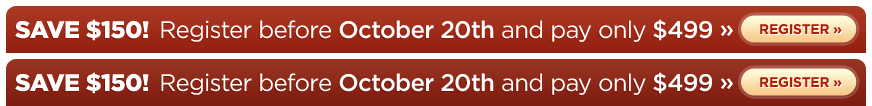
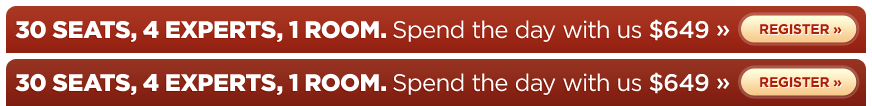
added non-discount callout images; updated text with non-discount copy.

Changed region(s): [[0.0, 0.6792, 0.867, 0.9057], [0.0, 0.1698, 0.867, 0.3962]]

diff --git a/template-event.html b/template-event.html
@@ -68,121 +68,125 @@
     	</div><!-- end #header -->
     	
     	<div id="content">
-    	    <a href="" id="callout">Save $150! Register before October 15th and pay only $499 &raquo;</a>
+    	    <a href="" id="callout">Save $150! Register before October 24th and pay only $499 &raquo;</a>
     	    
     	    <div id="register">
     	       <h2>Register</h2>
     	       <p><a href="" id="button">
     	           <span id="registration-price">$499</span>
     	           <span id="registration-type">Early Workshop Registration
-    	               <span class="hidden">(</span><span id="discount-notice">$649 after October 15th</span><span class="hidden">).</span>
+    	               <span class="hidden">(</span><span id="discount-notice">$649 after October 24th</span><span class="hidden">).</span>
     	           </span>
     	           <span id="register-now">Register now! &raquo;</span></a></p>
-    	       <p><img src="css/images/logo-eventwax.png" width="121" height="64" alt="Logo Eventwax" />Our signup process is handled by <strong>EventWax</strong>, and excellent bit of software from our friends at <strong>Vivabit</strong>, used for events around the world including the popular <strong>@media</strong> conferences. Payments are handled by <strong>Paypal</strong>&mdash;and don&rsquo;t worry, you can register without a Paypal account.</p>
+    	       <p><img src="css/images/logo-eventwax.png" width="121" height="64" alt="Logo Eventwax" />Our signup process is handled by <strong>EventWax</strong>, an excellent bit of software from our friends at <strong>Vivabit</strong>, used for events around the world including the popular <strong>@media</strong> conferences. Payments are handled by <strong>Paypal</strong>&mdash;and don&rsquo;t worry, you can register without a Paypal account.</p>
     	    </div>
     	    
     	    <div id="about">
-    	       <h2>What You'll Learn</h2>
-               <p><strong>Front-End Development: From Design to Implementation</strong></p>
-               
-               <table border="0" cellspacing="10" cellpadding="0">
-       	           <thead>
-           	           <tr>
-           	               <th>Time</th>
-           	               <th>Description</th>
-           	               <th>Speaker</th>
-           	           </tr>
-       	           </thead>
-       	           <tbody>
-       	               <tr>
-          	               <td>8:00am &ndash; 9:00am</td>
-          	               <td>
-          	                   <h3>Registration &amp; Breakfast</h3>
-          	                   <p>Get to the hotel bright and early to pick up your namebadge and grab a snack before the first session.</p>
-          	               </td>
-          	               <td>&nbsp;</td>
-          	           </tr>
-          	           <tr>
-         	               <td>9:00am &ndash; 9:15am</td>
-         	               <td>
-         	                   <h3>Welcome &amp; Introduction</h3>
-         	               </td>
-         	               <td>&nbsp;</td>
-         	           </tr>
-           	           <tr class="session">
-           	               <td>9:15am &ndash; 10:30am</td>
-           	               <td>
-           	                   <h3>Planning &amp; Designing Your Interface</h3>
-           	                   <p>You have a concept and a feature list, now what? Bryan helps you organize and label your content, and teaches you to find zen in the most subtle details.</p>
-           	               </td>
-           	               <td><a href="#bryanveloso">Bryan Veloso</a></td>
-           	           </tr>
-           	           <tr>
-          	               <td>10:30am &ndash; 10:45am</td>
-          	               <td>
-          	                   <h3>Mid-Morning Break</h3>
-          	                   <p>A quick pause between sessions&mdash;just enough time to grab some coffee and check your email.</p>
-          	               </td>
-          	               <td>&nbsp;</td>
-          	           </tr>
-           	           <tr class="session">
-          	               <td>10:45am &ndash; 12:00pm</td>
-          	               <td>
-          	                   <h3>Slicing &amp; Dicing: Exporting &amp; Optimizing Images</h3>
-          	                   <p>Now that you have your design, Dan teaches you to translate your carefully crafted layers into creatively flattened retangles, and how to pick the best image type and compression to achieve the right balance of good looks and slim file sizes.</p>
-          	               </td>
-          	               <td><a href="#danrubin">Dan Rubin</a></td>
-          	           </tr>
-          	           <tr>
-          	               <td>12:00pm &ndash; 1:15pm</td>
-          	               <td>
-          	                   <h3>Lunch</h3>
-          	                   <p>Lunch will be catered in. This is a time to refuel, and get to know the other attendees and the speakers.</p>
-          	               </td>
-          	               <td>&nbsp;</td>
-          	           </tr>
-          	           <tr class="session">
-          	               <td>1:15pm &ndash; 2:30pm</td>
-          	               <td>
-          	                   <h3>HTML/CSS: Putting it All Together</h3>
-          	                   <p>With a design and prepared images in hand, Steve shows you simple yet powerful methods and patterns to build your markup and style. Maybe even a little HTML5/CSS3.</p>
-          	               </td>
-          	               <td><a href="#stevesmith">Steve Smith</a></td>
-          	           </tr>
-          	           <tr>
-          	               <td>2:30pm &ndash; 2:45pm</td>
-          	               <td>
-          	                   <h3>Afternoon Break</h3>
-          	                   <p>A quick pause between sessions&mdash;just enough time to grab some coffee and check your email.</p>
-          	               </td>
-          	               <td>&nbsp;</td>
-          	           </tr>
-          	           <tr class="session">
-          	               <td>2:45pm &ndash; 4:00pm</td>
-          	               <td>
-          	                   <h3>Javascript Libraries &amp; You</h3>
-          	                   <p>Once you have your markup and styles, Jonathan walks you through simple, effective and time-saving ways to add behavior with popular JS libraries.</p>
-          	               </td>
-          	               <td><a href="#jonathansnook">Jonathan Snook</a></td>
-          	           </tr>
-          	           <tr class="session">
-          	               <td>4:00pm &ndash; 5:00pm</td>
-          	               <td>
-          	                   <h3>Group Discussion / Q&amp;A</h3>
-          	                   <p>Bryan, Dan, Jonathan and Steve will answer your questions, critique your work, make fun of each other&mdash;this is where you get to direct the show.</p>
-          	               </td>
-          	               <td>All</td>
-          	           </tr>
-          	           <tr>
-         	               <td>5:00pm &ndash; whenever</td>
-         	               <td>
-         	                   <h3>Drinks &amp; Conversation</h3>
-         	                   <p>Join us in the hotel lounge for a casual and relaxed few hours of conversation&mdash;invite your friends, too!</p>
-         	               </td>
-         	               <td>&nbsp;</td>
-         	           </tr>
-      	           </tbody>
-       	       </table>
+    	        <h2>What You'll Learn</h2>
+                   <h3>Front-End Development: From Design to Implementation</h3>
+                   <p>In this full-day workshop, you&rsquo;ll learn how to plan, design, optimize, build and add interaction to your front-end templates using the latest proven web standards techniques and time-saving tips for production in the real-world.</p>
+                   <p>Basic knowledge of <strong>XHTML</strong> &amp; <strong>CSS</strong>, and either <strong>Photoshop</strong> or <strong>Fireworks</strong> will help you get the most out of your day (bring your laptop to follow along with the examples).</p>
+
+                   <table border="0" cellspacing="10" cellpadding="0">
+    									 <colgroup class="time"></colgroup>
+    									 <colgroup span="2"></colgroup>
+           	           <thead>
+               	           <tr>
+               	               <th>Time</th>
+               	               <th>Description</th>
+               	               <th>Speaker</th>
+               	           </tr>
+           	           </thead>
+           	           <tbody>
+           	               <tr>
+              	               <td>8:00am &ndash; 9:00am</td>
+              	               <td>
+              	                   <h3>Registration &amp; Breakfast</h3>
+              	                   <p>Get to the hotel bright and early to pick up your namebadge and grab a snack before the first session.</p>
+              	               </td>
+              	               <td>&nbsp;</td>
+              	           </tr>
+              	           <tr>
+             	               <td>9:00am &ndash; 9:15am</td>
+             	               <td>
+             	                   <h3>Welcome &amp; Introduction</h3>
+             	               </td>
+             	               <td>&nbsp;</td>
+             	           </tr>
+               	           <tr class="session">
+               	               <td>9:15am &ndash; 10:30am</td>
+               	               <td>
+               	                   <h3>Planning &amp; Designing Your Interface</h3>
+               	                   <p>You have a concept and a feature list, now what? Bryan helps you organize and label your content, and teaches you to find zen in the most subtle details.</p>
+               	               </td>
+               	               <td><a href="#bryanveloso">Bryan Veloso</a></td>
+               	           </tr>
+               	           <tr>
+              	               <td>10:30am &ndash; 10:45am</td>
+              	               <td>
+              	                   <h3>Mid-Morning Break</h3>
+              	                   <p>A quick pause between sessions&mdash;just enough time to grab some coffee and check your email.</p>
+              	               </td>
+              	               <td>&nbsp;</td>
+              	           </tr>
+               	           <tr class="session">
+              	               <td>10:45am &ndash; 12:00pm</td>
+              	               <td>
+              	                   <h3>Slicing &amp; Dicing: Exporting &amp; Optimizing Images</h3>
+              	                   <p>Now that you have your design, Dan teaches you to translate your carefully crafted layers into creatively flattened rectangles, and how to pick the best image type and compression to achieve the right balance of good looks and slim file sizes.</p>
+              	               </td>
+              	               <td><a href="#danrubin">Dan Rubin</a></td>
+              	           </tr>
+              	           <tr>
+              	               <td>12:00pm &ndash; 1:15pm</td>
+              	               <td>
+              	                   <h3>Lunch</h3>
+              	                   <p>Lunch will be catered in. This is a time to refuel, and get to know the other attendees and the speakers.</p>
+              	               </td>
+              	               <td>&nbsp;</td>
+              	           </tr>
+              	           <tr class="session">
+              	               <td>1:15pm &ndash; 2:30pm</td>
+              	               <td>
+              	                   <h3>HTML/CSS: Putting it All Together</h3>
+              	                   <p>With a design and prepared images in hand, Steve shows you simple yet powerful methods and patterns to build your markup and style. Maybe even a little HTML5/CSS3.</p>
+              	               </td>
+              	               <td><a href="#stevesmith">Steve Smith</a></td>
+              	           </tr>
+              	           <tr>
+              	               <td>2:30pm &ndash; 2:45pm</td>
+              	               <td>
+              	                   <h3>Afternoon Break</h3>
+              	                   <p>A quick pause between sessions&mdash;just enough time to grab some coffee and check your email.</p>
+              	               </td>
+              	               <td>&nbsp;</td>
+              	           </tr>
+              	           <tr class="session">
+              	               <td>2:45pm &ndash; 4:00pm</td>
+              	               <td>
+              	                   <h3>Javascript Libraries &amp; You</h3>
+              	                   <p>Once you have your markup and styles, Jonathan walks you through simple, effective and time-saving ways to add behavior with popular JS libraries.</p>
+              	               </td>
+              	               <td><a href="#jonathansnook">Jonathan Snook</a></td>
+              	           </tr>
+              	           <tr class="session">
+              	               <td>4:00pm &ndash; 5:00pm</td>
+              	               <td>
+              	                   <h3>Group Discussion / Q&amp;A</h3>
+              	                   <p>Bryan, Dan, Jonathan and Steve will answer your questions, critique your work, make fun of each other&mdash;this is where you get to direct the show.</p>
+              	               </td>
+              	               <td>All</td>
+              	           </tr>
+              	           <tr>
+             	               <td>5:00pm &ndash; whenever</td>
+             	               <td>
+             	                   <h3>Drinks &amp; Conversation</h3>
+             	                   <p>Join us in the hotel lounge for a casual and relaxed few hours of conversation&mdash;invite your friends, too!</p>
+             	               </td>
+             	               <td>&nbsp;</td>
+             	           </tr>
+          	           </tbody>
+           	       </table>
     	       
     	       <h3>The speakers</h3>
        	       <h4 id="danrubin">Dan Rubin <em>(<a href="http://twitter.com/danrubin">@danrubin on Twitter</a>)</em></h4>

diff --git a/2008/washingtondc/index.html b/2008/washingtondc/index.html
@@ -68,17 +68,17 @@
         </div><!-- end #header -->
         
         <div id="content">
-            <a href="http://sidebar.eventwax.com/sidebar-workshop-washington-dc/register" id="callout" title="Register now! &raquo;">Save $150! Register before October 20th and pay only $499 &raquo;</a>
+            <a href="http://sidebar.eventwax.com/sidebar-workshop-washington-dc/register" id="callout" title="Register now! &raquo;">30 Seats, 4 Experts, 1 Room. Spend the day with us for only $649 &raquo;</a>
             
             <div id="register">
                <h2>Register</h2>
                <p><a href="http://sidebar.eventwax.com/sidebar-workshop-washington-dc/register" id="button">
-       	           <span id="registration-price">$499</span>
-       	           <span id="registration-type">Early Workshop Registration
-       	               <span class="hidden">(</span><span id="discount-notice">$649 after October 20th</span><span class="hidden">).</span>
+       	           <span id="registration-price">$649</span>
+       	           <span id="registration-type">Workshop Registration
+       	               <span class="hidden">(</span><span id="discount-notice">Ask about educational discounts</span><span class="hidden">).</span>
        	           </span>
        	           <span id="register-now">Register now! &raquo;</span></a></p>
-       	       <p><img src="/css/images/logo-eventwax.png" width="121" height="64" alt="Logo Eventwax" />Our signup process is handled by <strong>EventWax</strong>, and excellent bit of software from our friends at <strong>Vivabit</strong>, used for events around the world including the popular <strong>@media</strong> conferences. Payments are handled by <strong>Paypal</strong>&mdash;and don&rsquo;t worry, you can register without a Paypal account.</p>
+       	       <p><img src="/css/images/logo-eventwax.png" width="121" height="64" alt="Logo Eventwax" />Our signup process is handled by <strong>EventWax</strong>, an excellent bit of software from our friends at <strong>Vivabit</strong>, used for events around the world including the popular <strong>@media</strong> conferences. Payments are handled by <strong>Paypal</strong>&mdash;and don&rsquo;t worry, you can register without a Paypal account.</p>
             </div>
             
             <div id="about">
